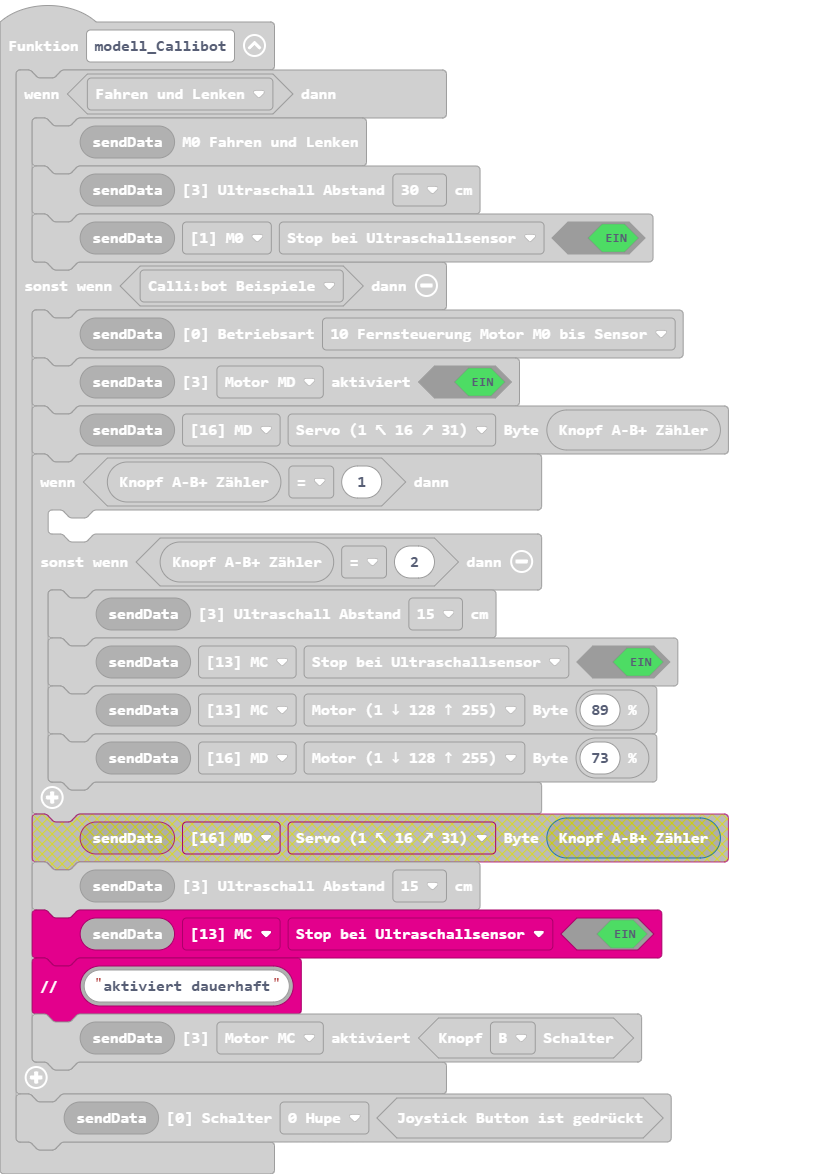
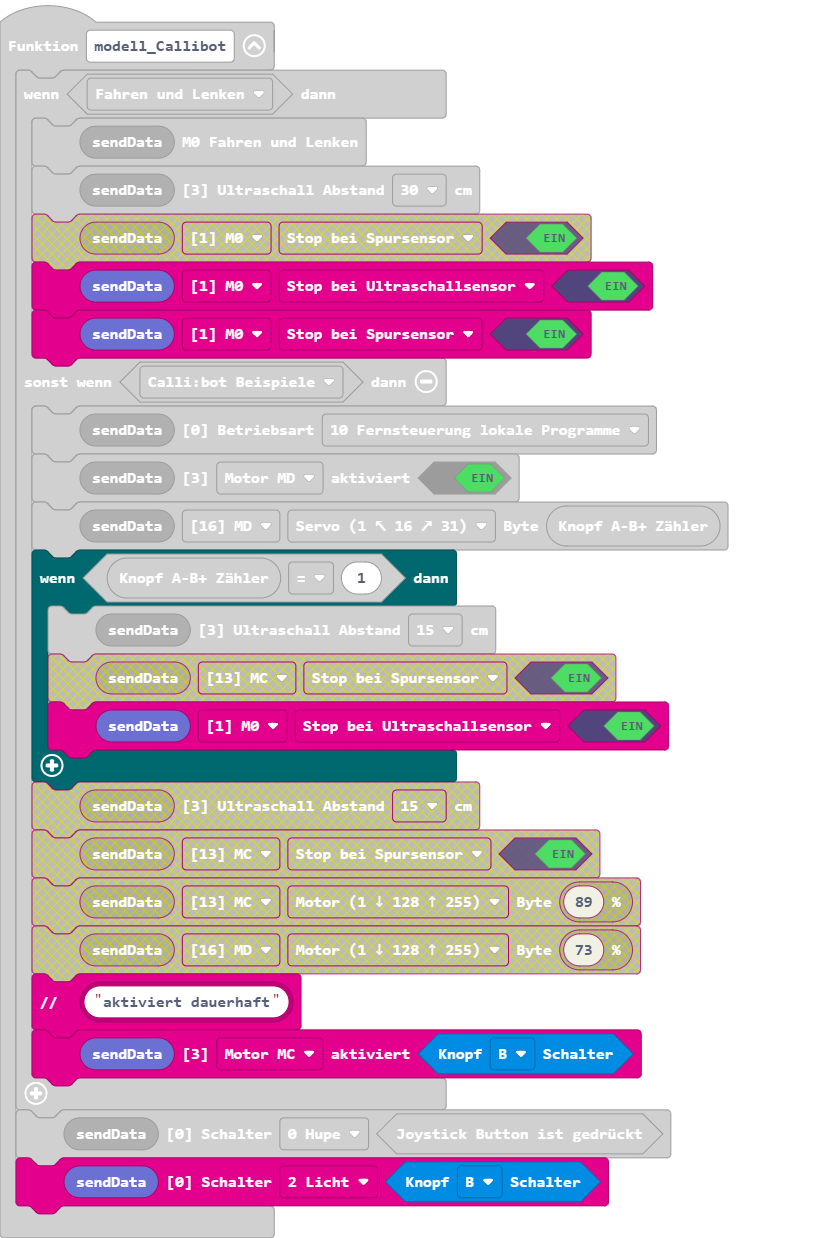
Aktualisiere pxt.json, main.blocks, main.ts

diff --git a/main.ts b/main.ts
@@ -2,24 +2,21 @@ function modell_Callibot () {
     if (sender.isFunktion(sender.eFunktion.m0_s0)) {
         sender.sendM0(btf.btf_sendBuffer19())
         btf.setAbstand(btf.btf_sendBuffer19(), btf.e3Abstand.u3)
-        btf.setSensor(btf.btf_sendBuffer19(), btf.eBufferPointer.m0, btf.eSensor.b6, true)
+        btf.setSensor(btf.btf_sendBuffer19(), btf.eBufferPointer.m0, btf.eSensor.b6Abstand, true)
+        btf.setSensor(btf.btf_sendBuffer19(), btf.eBufferPointer.m0, btf.eSensor.b5Spur, true)
     } else if (sender.isFunktion(sender.eFunktion.mc_md_callibot_beispiele)) {
         btf.setBetriebsart(btf.btf_sendBuffer19(), btf.e0Betriebsart.p1)
         btf.setaktiviert(btf.btf_sendBuffer19(), btf.e3aktiviert.md, true)
         btf.setByte(btf.btf_sendBuffer19(), btf.eBufferPointer.md, btf.eBufferOffset.b1_Servo, sender.getButtonAB_Counter())
         if (sender.getButtonAB_Counter() == 1) {
             btf.setAbstand(btf.btf_sendBuffer19(), btf.e3Abstand.u1)
-            btf.setSensor(btf.btf_sendBuffer19(), btf.eBufferPointer.mc, btf.eSensor.b6, true)
-        } else if (sender.getButtonAB_Counter() == 2) {
-            btf.setAbstand(btf.btf_sendBuffer19(), btf.e3Abstand.u1)
-            btf.setSensor(btf.btf_sendBuffer19(), btf.eBufferPointer.mc, btf.eSensor.b6, true)
-            btf.setByte(btf.btf_sendBuffer19(), btf.eBufferPointer.mc, btf.eBufferOffset.b0_Motor, btf.speedPicker(89))
-            btf.setByte(btf.btf_sendBuffer19(), btf.eBufferPointer.md, btf.eBufferOffset.b0_Motor, btf.speedPicker(73))
+            btf.setSensor(btf.btf_sendBuffer19(), btf.eBufferPointer.m0, btf.eSensor.b6Abstand, true)
         }
         btf.comment(btf.btf_text("aktiviert dauerhaft"))
         btf.setaktiviert(btf.btf_sendBuffer19(), btf.e3aktiviert.mc, sender.getButtonAB_Switch(sender.eButtonAB_Switch.B))
     }
     btf.setSchalter(btf.btf_sendBuffer19(), btf.e0Schalter.b0, sender.joystickButtonPosition())
+    btf.setSchalter(btf.btf_sendBuffer19(), btf.e0Schalter.b2, sender.getButtonAB_Switch(sender.eButtonAB_Switch.B))
 }
 input.onButtonEvent(Button.A, input.buttonEventClick(), function () {
     sender.buttonA()
